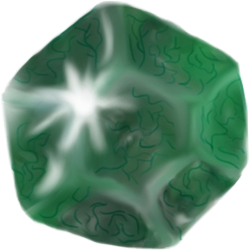
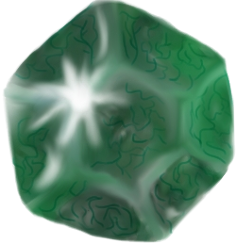
Gem Sprites and IMMERSIVE Mode
Updated the gem sprites with the newly resized ones.
Reorganized and cleaned code a bit.
Added IMMERSIVE Mode for non-hardware button phones.

diff --git a/src/com/teamv/capstone/gemboard/Gemboard.java b/src/com/teamv/capstone/gemboard/Gemboard.java
@@ -95,7 +95,7 @@ public class Gemboard implements IOnSceneTouchListener{
 	}
 
 	public static void executeGems() {
-		System.out.println("GEM CHAIN SIZE: " + connectedGems.size());
+		
 		if(connectedGems.size() >= 3){
 			for(Gem gem : connectedGems){
 				dropGem(gem);
@@ -106,88 +106,26 @@ public class Gemboard implements IOnSceneTouchListener{
 		}
 		
 		connectedGems.clear();
-		
-		printBoard();
-		
-		System.out.println("GEMS LEFT IN GEMBOARD: " + gemboardSize());
+		//printAll();
 	}
 	
+	// drops every gem above the parameter gem, then drop a new gem
 	private static void dropGem(Gem gem){
+		// column of gem
+		int col = gem.getCol();
+		
 		for(int i = gem.getRow(); i > 0; i--){
-			grid[gem.getCol()][i] = grid[gem.getCol()][i - 1];
+			grid[col][i] = grid[col][i - 1];
 	
-			grid[gem.getCol()][i].drop();
+			grid[col][i].drop();
 		}
 		
-		grid[gem.getCol()][0] = randomGem(gem.getCol(), 0);
-		//grid[gem.getCol()][0] = new RedGem(gem.getCol(), 0);
-		grid[gem.getCol()][0].attachToScene(SceneManager.getInstance().getCurrentScene());
+		grid[col][0] = randomGem(col, 0);
+		grid[col][0].attachToScene(SceneManager.getInstance().getCurrentScene());
 		
 		gem.onDie();
 		gem = null;
 	}
-	
-	/*private static void dropGems() {
-	// An array of ArrayLists holdings the coordinates of our nulls
-	ArrayList<Pointf>[] nullList = new ArrayList[7];
-	
-	// For each gem in connected gems (since items in this list have been deleted, all spaces are null)
-	for (Gem gem : connectedGems) {
-		// Add a point containing column and row of deleted gem to the ArrayList of same index as deleted gem's column
-		nullList[gem.getCol()].add(new Pointf(gem.getCol(), gem.getRow()));
-		// Sort the positions from row of highest index to row of lowest index
-		Collections.sort(nullList[gem.getCol()], new Comparator<Pointf>() {
-			public int compare (Pointf point1, Pointf point2) {
-				return  (int)(point2.getY() - point1.getY());
-			}
-		});
-	}
-	// for all columns of nullList
-	for (int x = 0; x < nullList.length; x++) {
-		// if the column contains any points
-		if (!nullList[x].isEmpty()) {
-			// for all rows of the gemboard
-			for (int y = rows - 1; y >= 0; y--) {
-				// if odd and last row, don't check
-				if(x%2 != 0 && y == rows - 1) {
-					break;
-				}
-				// the number of empty spaces below the gem
-				int numEmptySpacesBelow = 0;
-				// for each point in this column of nullList (remember x,y is col,row)
-				for (Pointf emptySpace : nullList[x]) {
-					// if the row of emptySpace is below (greater index) than row of current gem
-					if (emptySpace.y > grid[x][y].getRow()) {
-						// increment number of empty spaces below current gem by one
-						numEmptySpacesBelow++;
-					}
-				}
-				// Move gem down by number of empty spaces below it
-				grid[x][y + numEmptySpacesBelow] = grid[x][y];
-				grid[x][y].gemSprite.detachSelf();
-				grid[x][y + numEmptySpacesBelow].attachToScene(SceneManager.getInstance().getCurrentScene());
-			}
-		}
-	}
-	
-	for(int x = 0; x < cols; x++) {
-		for(int y = 0; y < rows; y++) {				
-			// if odd and last row, don't add gem
-			if(x%2 != 0 && y == rows - 1) {
-				break;
-			}
-			if(grid[x][y] == null) {
-				for(int z = y-1; z >= 0; z--) {
-					grid[x][z + 1] = grid[x][z];
-					grid[x][z + 1].gemSprite.detachSelf();
-					grid[x][z + 1].attachToScene(SceneManager.getInstance().getCurrentScene());
-				}
-				// Add gem from the top (Currently only red)
-				grid[x][0] = new RedGem(x, 0);
-			}
-		}
-	}
-}*/
 	
 	@Override
 	public boolean onSceneTouchEvent(Scene pScene, TouchEvent pSceneTouchEvent) {
@@ -214,10 +152,15 @@ public class Gemboard implements IOnSceneTouchListener{
 		return new RedGem(col, row);
 	}
 	
-	
 	//////////////////////////////////////////////////
 	// DEBUG AND INFO methods
 	//////////////////////////////////////////////////
+	
+	@SuppressWarnings("unused")
+	private static void printAll(){
+		printBoardSize();
+		printBoard();
+	}
 	
 	private static void printBoard() {
 		for(int x = 0; x < cols; x++){
@@ -233,6 +176,10 @@ public class Gemboard implements IOnSceneTouchListener{
 				}
 			}
 		}
+	}
+	
+	private static void printBoardSize(){
+		System.out.println("GEMS LEFT IN GEMBOARD: " + gemboardSize());
 	}
 	
 	private static int gemboardSize(){

diff --git a/src/com/teamv/capstone/gemboard/gems/Gem.java b/src/com/teamv/capstone/gemboard/gems/Gem.java
@@ -33,13 +33,7 @@ public abstract class Gem{
 		end = Gemboard.getEndPoint();
 	}
 	
-	public void update(int col, int row){
-		this.col = col;
-		this.row = row;
-		
-		update();
-	}
-	
+	// update gem variables
 	public void update(){
 		gemSprite.setX(col * (RADIUS + buffer) + buffer);
 		gemSprite.setY(startingY + row * (RADIUS + buffer) + buffer);
@@ -50,9 +44,17 @@ public abstract class Gem{
 		}
 	}
 	
+	// update gem variables given col/row
+	// can remove this if not used
+	public void update(int col, int row){
+		this.col = col;
+		this.row = row;
+		update();
+	}
+	
+	// drop the gem, so row++
 	public void drop(){
 		row = row + 1;
-		
 		update();
 	}
 	
@@ -114,35 +116,26 @@ public abstract class Gem{
 	protected abstract boolean sameColor(Gem gem);
 	
 	protected void drawLine(VertexBufferObjectManager vbom){
-		// distance formula
-    	float tempX = (start.getX() - end.getX()) * (start.getX() - end.getX());
-    	float tempY = (start.getY() - end.getY()) * (start.getY() - end.getY());
-    	float distance = (float) Math.sqrt(tempX + tempY);
-    	
-    	// use radius to detect range!
-    	if(distance <= RADIUS*1.5){
-    		
-    		//System.out.println("acceptable distance: " + distance);
-    		
-    		// gem list is not empty
-    		// gem is matching colors
-    		// gem is not already in the chain
-    		if( !Gemboard.connectedGems.isEmpty() &&
-    			this.sameColor(Gemboard.connectedGems.get(Gemboard.connectedGems.size() - 1)) &&
-    			!Gemboard.connectedGems.contains(this)){
-    			
-	        	Line line = new Line(start.getX(), start.getY(), end.getX(), end.getY(), vbom);
+    	// location is adjacent to gem
+		// gem list is not empty
+		// gem is matching colors
+		// gem is not already in the chain
+		if( isAdjacent(start.getX(), end.getX(), start.getY(), end.getY()) &&
+			!Gemboard.connectedGems.isEmpty() &&
+			this.sameColor(Gemboard.connectedGems.get(Gemboard.connectedGems.size() - 1)) &&
+			!Gemboard.connectedGems.contains(this)){
+			
+        	Line line = new Line(start.getX(), start.getY(), end.getX(), end.getY(), vbom);
 
-	        	line.setLineWidth(5);
-	        	line.setColor(Color.BLACK);
-	            SceneManager.getInstance().getCurrentScene().attachChild(line);
-	            Gemboard.lines.add(line);
-	            
-	            start.setX(gemSprite.getX() + RADIUS/2);
-	        	start.setY(gemSprite.getY() + RADIUS/2);
-	        	
-	        	Gemboard.connectedGems.add(this);
-        	}
+        	line.setLineWidth(5);
+        	line.setColor(Color.BLACK);
+            SceneManager.getInstance().getCurrentScene().attachChild(line);
+            Gemboard.lines.add(line);
+            
+            start.setX(gemSprite.getX() + RADIUS/2);
+        	start.setY(gemSprite.getY() + RADIUS/2);
+        	
+        	Gemboard.connectedGems.add(this);
     	}
 	}
 	
@@ -151,10 +144,21 @@ public abstract class Gem{
 		gameScene.attachChild(gemSprite);
 	}
 	
-//	public void detachToScene(BaseScene gameScene){
-//		gameScene.unregisterTouchArea(gemSprite);
-//		gameScene.detachChild(gemSprite);
-//	}
+	// used for drawing lines
+	private boolean isAdjacent(float x1, float x2, float y1, float y2){
+		// distance formula
+		float x = x1 - x2;
+		float y = y1 - y2;
+		float distance = (float) Math.sqrt(x*x + y*y);
+    	
+    	return distance < RADIUS * 1.5;		
+	}
+	
+	// used publicly for gem adjacency
+	public boolean isAdjacent(Gem gem){
+    	return isAdjacent(	gemSprite.getX(), gem.gemSprite.getX(), 
+    						gemSprite.getY(), gem.gemSprite.getY());
+	}
 	
 	///////////////////////////////////////////
 	// SETTERS AND GETTERS

diff --git a/src/com/teamv/capstone/GameActivity.java b/src/com/teamv/capstone/GameActivity.java
@@ -17,6 +17,7 @@ import org.andengine.ui.activity.BaseGameActivity;
 import android.annotation.TargetApi;
 import android.os.Build;
 import android.view.KeyEvent;
+import android.view.View;
 
 /**
  * @author Mateusz Mysliwiec
@@ -26,6 +27,7 @@ import android.view.KeyEvent;
 @TargetApi(Build.VERSION_CODES.HONEYCOMB) public class GameActivity extends BaseGameActivity
 {
 	private Camera camera;
+	@SuppressWarnings("unused")
 	private ResourcesManager resourcesManager;
 	
     public EngineOptions onCreateEngineOptions()
@@ -71,7 +73,7 @@ import android.view.KeyEvent;
     protected void onDestroy()
     {
     	super.onDestroy();
-            System.exit(0);	
+        System.exit(0);	
     }
     
     @Override
@@ -82,5 +84,21 @@ import android.view.KeyEvent;
             SceneManager.getInstance().getCurrentScene().onBackKeyPressed();
         }
         return false; 
+    }
+    
+    public synchronized void onWindowFocusChanged(boolean pHasWindowFocus) {
+        super.onWindowFocusChanged(pHasWindowFocus);
+        if (pHasWindowFocus) {
+            if (Build.VERSION.SDK_INT >= 19) {
+                int uiOptions
+                        = 256 // View.SYSTEM_UI_FLAG_LAYOUT_STABLE
+                        | View.SYSTEM_UI_FLAG_LAYOUT_HIDE_NAVIGATION
+                        | View.SYSTEM_UI_FLAG_LAYOUT_FULLSCREEN
+                        | View.SYSTEM_UI_FLAG_HIDE_NAVIGATION
+                        | View.SYSTEM_UI_FLAG_FULLSCREEN
+                        | 4096 | View.SYSTEM_UI_FLAG_IMMERSIVE_STICKY;
+                getWindow().getDecorView().setSystemUiVisibility(uiOptions);
+            }
+        }
     }
 }

diff --git a/src/com/teamv/capstone/ResourcesManager.java b/src/com/teamv/capstone/ResourcesManager.java
@@ -114,11 +114,13 @@ public class ResourcesManager
     private void loadGameGraphics()
     {
     	BitmapTextureAtlasTextureRegionFactory.setAssetBasePath("gfx/gems/");
-        gameTextureAtlas = new BitmapTextureAtlas(activity.getTextureManager(), 500, 500, TextureOptions.BILINEAR);
+        gameTextureAtlas = new BitmapTextureAtlas(activity.getTextureManager(), 484, 488, TextureOptions.BILINEAR);
         red_gem = BitmapTextureAtlasTextureRegionFactory.createFromAsset(gameTextureAtlas, activity, "fire_red.png", 0, 0);
-        green_gem = BitmapTextureAtlasTextureRegionFactory.createFromAsset(gameTextureAtlas, activity, "leaf_green.png", 250, 0);
-        blue_gem = BitmapTextureAtlasTextureRegionFactory.createFromAsset(gameTextureAtlas, activity, "water_blue.png", 0, 250);
-        yellow_gem = BitmapTextureAtlasTextureRegionFactory.createFromAsset(gameTextureAtlas, activity, "sun_yellow.png", 250, 250);
+        blue_gem = BitmapTextureAtlasTextureRegionFactory.createFromAsset(gameTextureAtlas, activity, "water_blue.png", 228, 0);
+        yellow_gem = BitmapTextureAtlasTextureRegionFactory.createFromAsset(gameTextureAtlas, activity, "sun_yellow.png", 0, 244);
+        green_gem = BitmapTextureAtlasTextureRegionFactory.createFromAsset(gameTextureAtlas, activity, "leaf_green.png", 240, 244);
+        
+        
         gameTextureAtlas.load();    
     }
     
